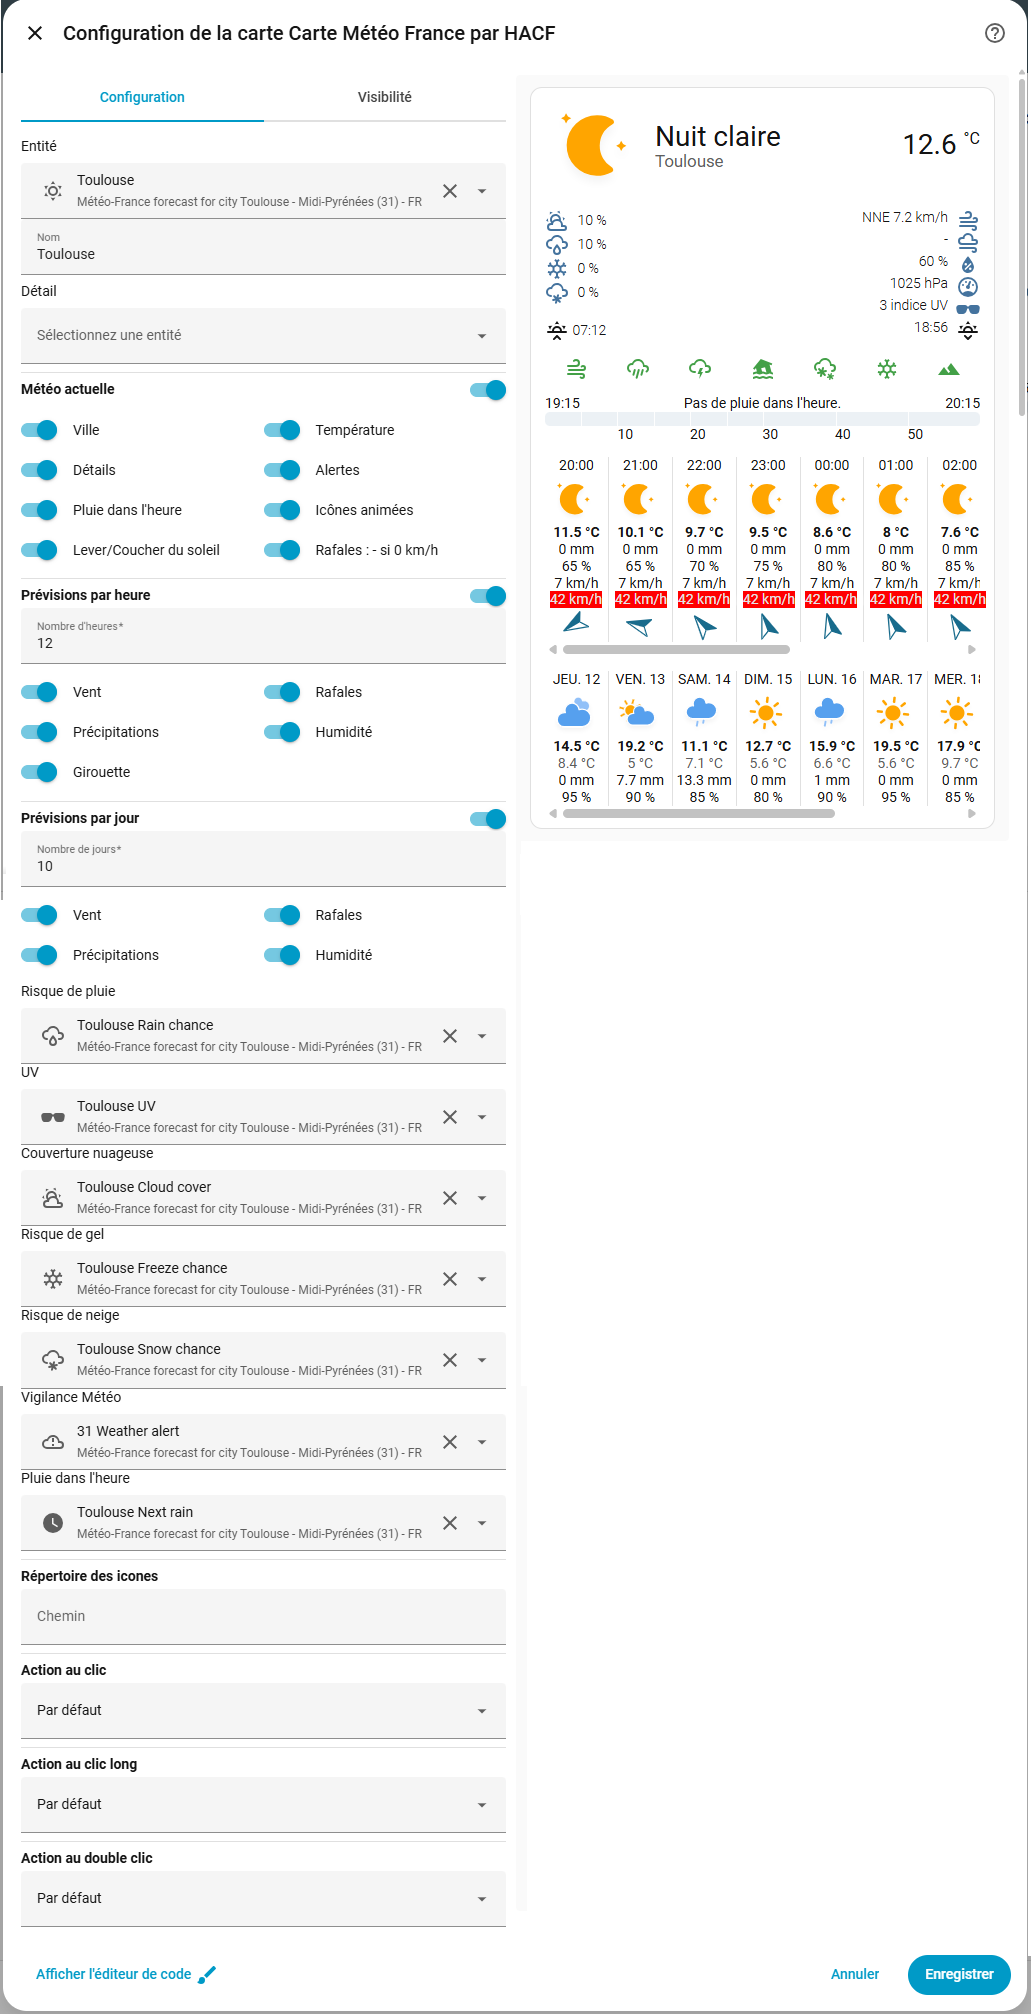
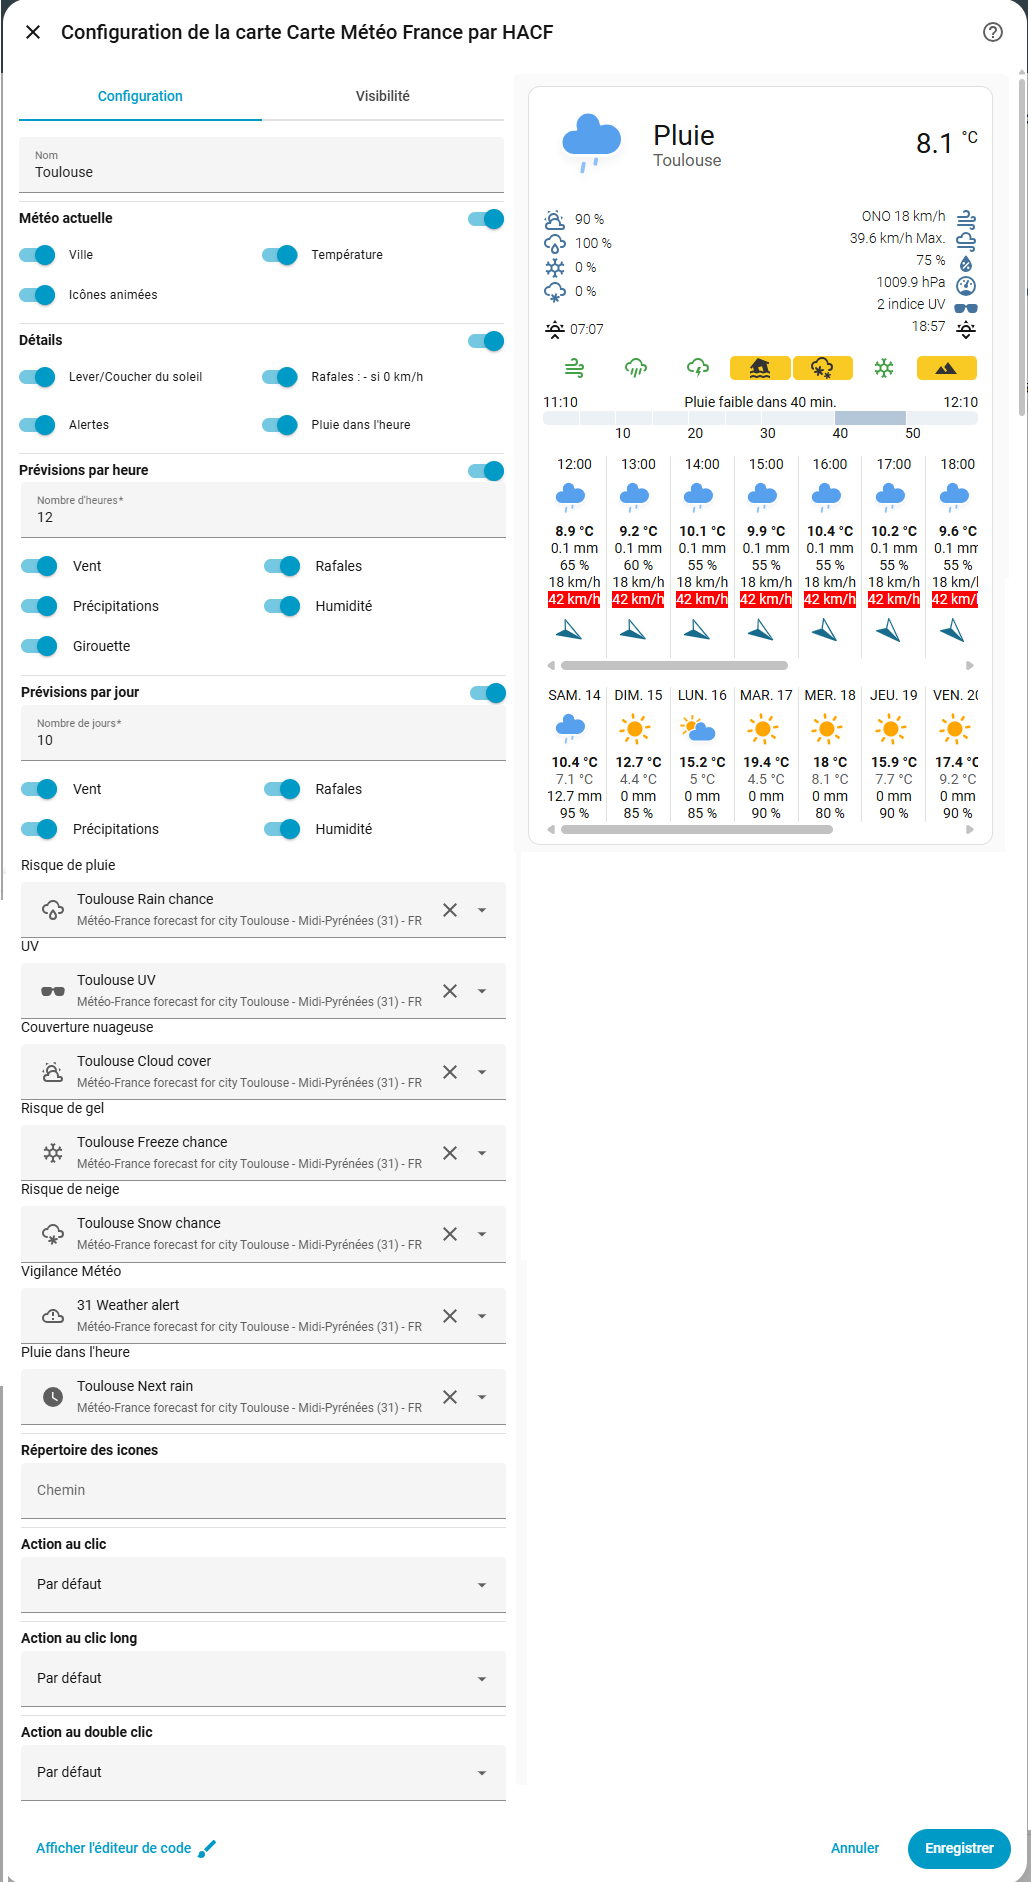
affichage dynamique des rafales (jheure/jour) si existent

diff --git a/dist/meteofrance-weather-card.js b/dist/meteofrance-weather-card.js
@@ -807,12 +807,10 @@ class MeteofranceWeatherCard extends LitElement {
               </li>
             `
           : ""}
-        ${cfg.wind && cfg.windGust && cfg.details && daily.wind_gust_speed !== undefined && daily.wind_gust_speed !== null
+        ${cfg.wind && cfg.windGust && cfg.details && (daily.wind_gust_speed !== undefined && daily.wind_gust_speed !== null)
           ? html`
-              <li class="wind_gust_speed">
-                ${this._config.wind_gust_zero_dash !== false && Math.round(daily.wind_gust_speed) === 0
-                  ? "-"
-                  : `${Math.round(daily.wind_gust_speed)} ${this.getUnit("speed")}`}
+              <li class="wind_gust_speed" style="${daily.wind_gust_speed != null && Math.round(daily.wind_gust_speed) !== 0 ? "background: red; color: white;" : ""}">
+                ${(() => { const v = daily.wind_gust_speed; return (v == null || (this._config.wind_gust_zero_dash !== false && Math.round(v) === 0)) ? "-" : `${Math.round(v)} ${this.getUnit("speed")}`; })()}
               </li>
             `
           : ""}
